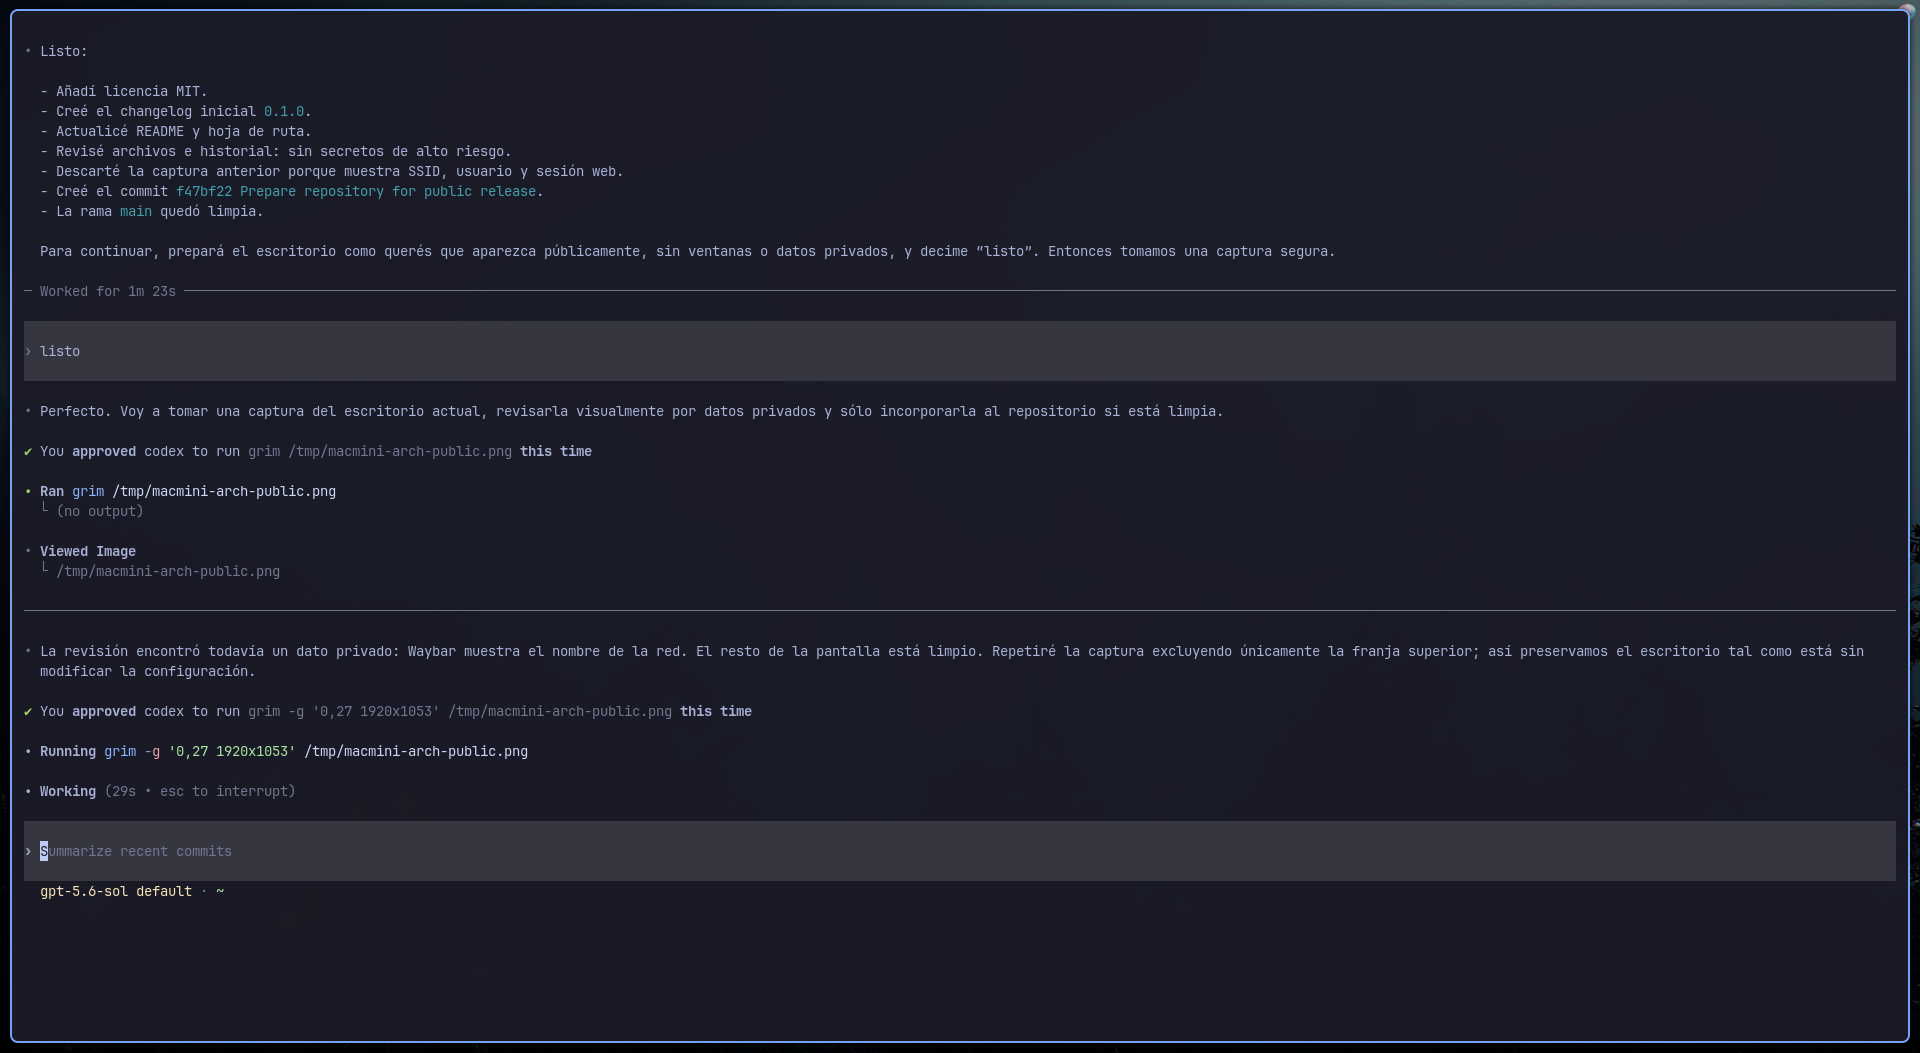
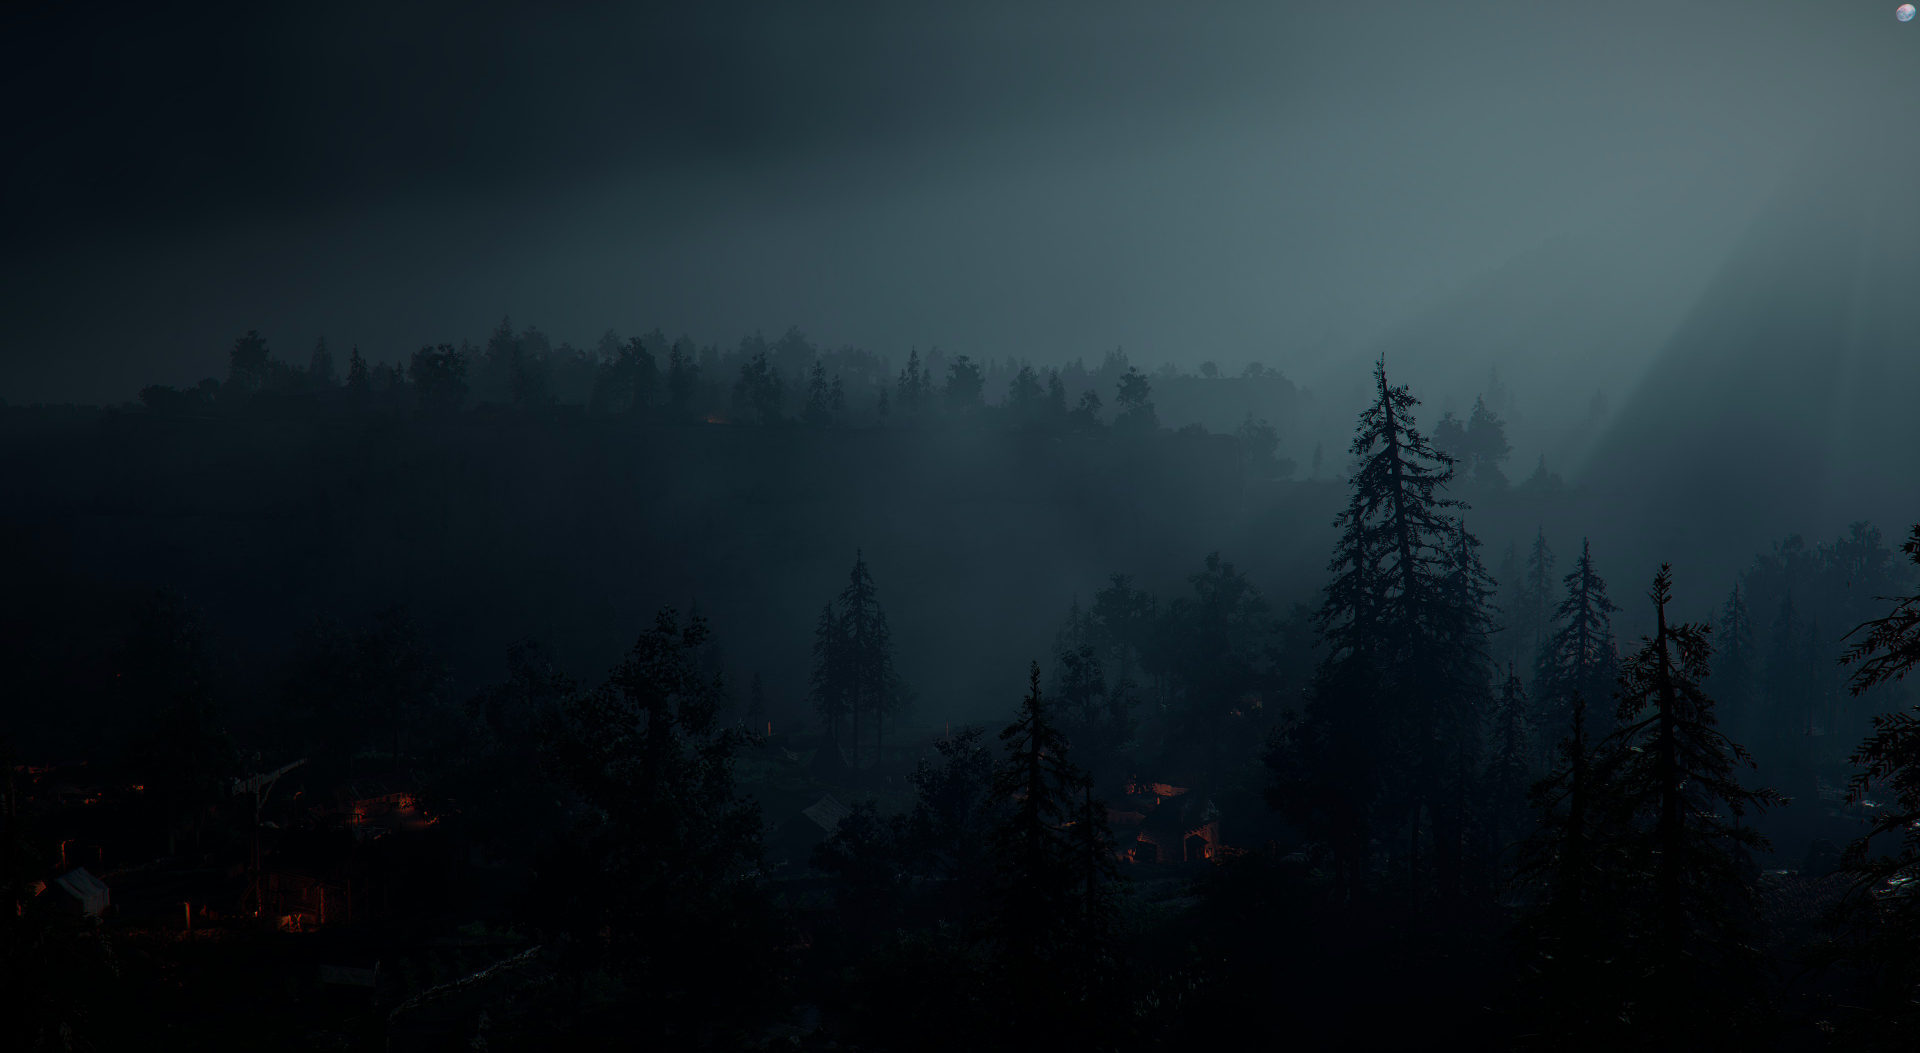
Refresh privacy-reviewed desktop screenshot

diff --git a/docs/inventory-visual.md b/docs/inventory-visual.md
@@ -1,4 +1,4 @@
-# Inventario visual — 2026-07-10
+# Inventario visual — 2026-07-11
 
 ## Resumen
 
@@ -10,6 +10,10 @@ El barrido de privacidad no encontró tokens, contraseñas, SSID fijos, rutas
 absolutas del usuario ni otros datos personales en los archivos visuales y
 scripts auxiliares revisados. La expresión `{essid}` de Waybar es una variable
 dinámica y no contiene el nombre de una red.
+
+La captura pública se renovó el 2026-07-11 con el escritorio vacío. Se excluyó
+la franja de Waybar porque su contenido dinámico mostraba el SSID activo; la
+imagen final no contiene usuario, red, IP, hostname, ventanas ni notificaciones.
 
 ## Componentes activos
 

diff --git a/CHANGELOG.md b/CHANGELOG.md
@@ -48,6 +48,8 @@ and this project follows [Semantic Versioning](https://semver.org/spec/v2.0.0.ht
   explicitly for Thunar and portable user-directory behavior.
 - Added a concise health check for routine post-update and post-reboot
   validation of services, networking, portals, packages, DKMS and storage.
+- Replaced the public desktop screenshot with a privacy-reviewed clean desktop
+  view that excludes the dynamic network information shown by Waybar.
 - Updated the pinned GitHub checkout action to v7.0.0, removing the deprecated
   Node.js 20 runtime warning.
 